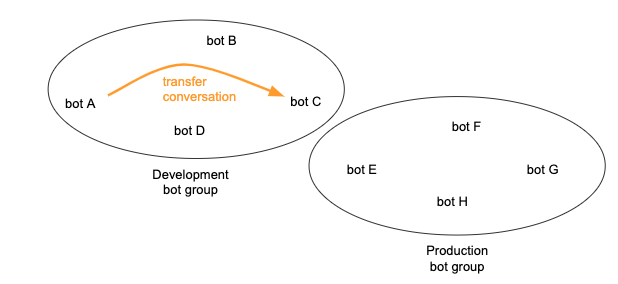
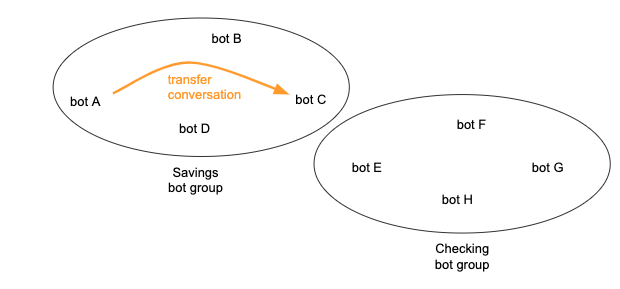
Update Bot Groups content

diff --git a/pages/documents/ConversationalAI/ConversationBuilder/Bots/MultiBotCollaboration.md b/pages/documents/ConversationalAI/ConversationBuilder/Bots/MultiBotCollaboration.md
@@ -124,7 +124,7 @@ No, apart from configuring the transfer message in the [bot group](conversation-
 The system first looks for a bot with a matching pattern. If one is found, that bot is selected. Otherwise, it then looks for a bot with a matching intent. If one is found, that bot is selected. And if multiple matching intents are found, the bot with the highest match score is selected.
 
 #### How many bot groups do I need?
-There's no limit to the number of bot groups that you can create, but it's likely that you'll need just a few. In general, create a bot group whenever you want to divide the bots into groups, such that collaboration occurs only within the group. One common use case is putting all Production bots into one group, all Staging bots into another, and all Development bots into still another. Within a given bot group then, you might have bots for the various business modules that are covered, e.g., an Accounting bot, a Customer Service bot, and so on.
+There's no limit to the number of bot groups that you can create, but it's likely that you'll need just a few. In general, create a bot group whenever you want to divide the bots into groups, such that collaboration occurs only within the group. It's common to organize bots into groups based on business function, e.g., Checking group/Savings group, Home Loan group/Auto Loan group, and so on. Alternatively, you could organize all your Development bots into one group, your Staging bots into another, and your Production bots into still another.
 
 #### Can I keep bot collaboration disabled and use bot groups only as a mechanism for grouping my bots?
 Yes, this is perfectly fine. For information on creating a group for this purpose, see [here](conversation-builder-bots-bot-groups.html#create-a-bot-group-only-to-group-bots).

diff --git a/pages/documents/ConversationalAI/ConversationBuilder/Bots/BotGroups.md b/pages/documents/ConversationalAI/ConversationBuilder/Bots/BotGroups.md
@@ -18,7 +18,7 @@ You can create bot groups and add bots to them for two purposes:
 
 * You want to enable [automatic, bot-to-bot transfers](conversation-builder-bots-bot-to-bot-transfers.html#automatic-transfers-via-bot-group) for the bots within a given bot group.
 
-One common use case for creating bot groups is to organize all Production bots in one group, all Staging bots in another, and all Development bots in still another. Within a given bot group then, you might have bots for the various business modules that are covered, e.g., an Accounting bot, a Customer Service bot, and so on.
+It's common to organize bots into groups based on business function, e.g., Checking group/Savings group, Home Loan group/Auto Loan group, and so on. Alternatively, you could organize all your Development bots into one group, your Staging bots into another, and your Production bots into still another.
 
 Note the following about the bots dashboard when bot groups exist:
 
